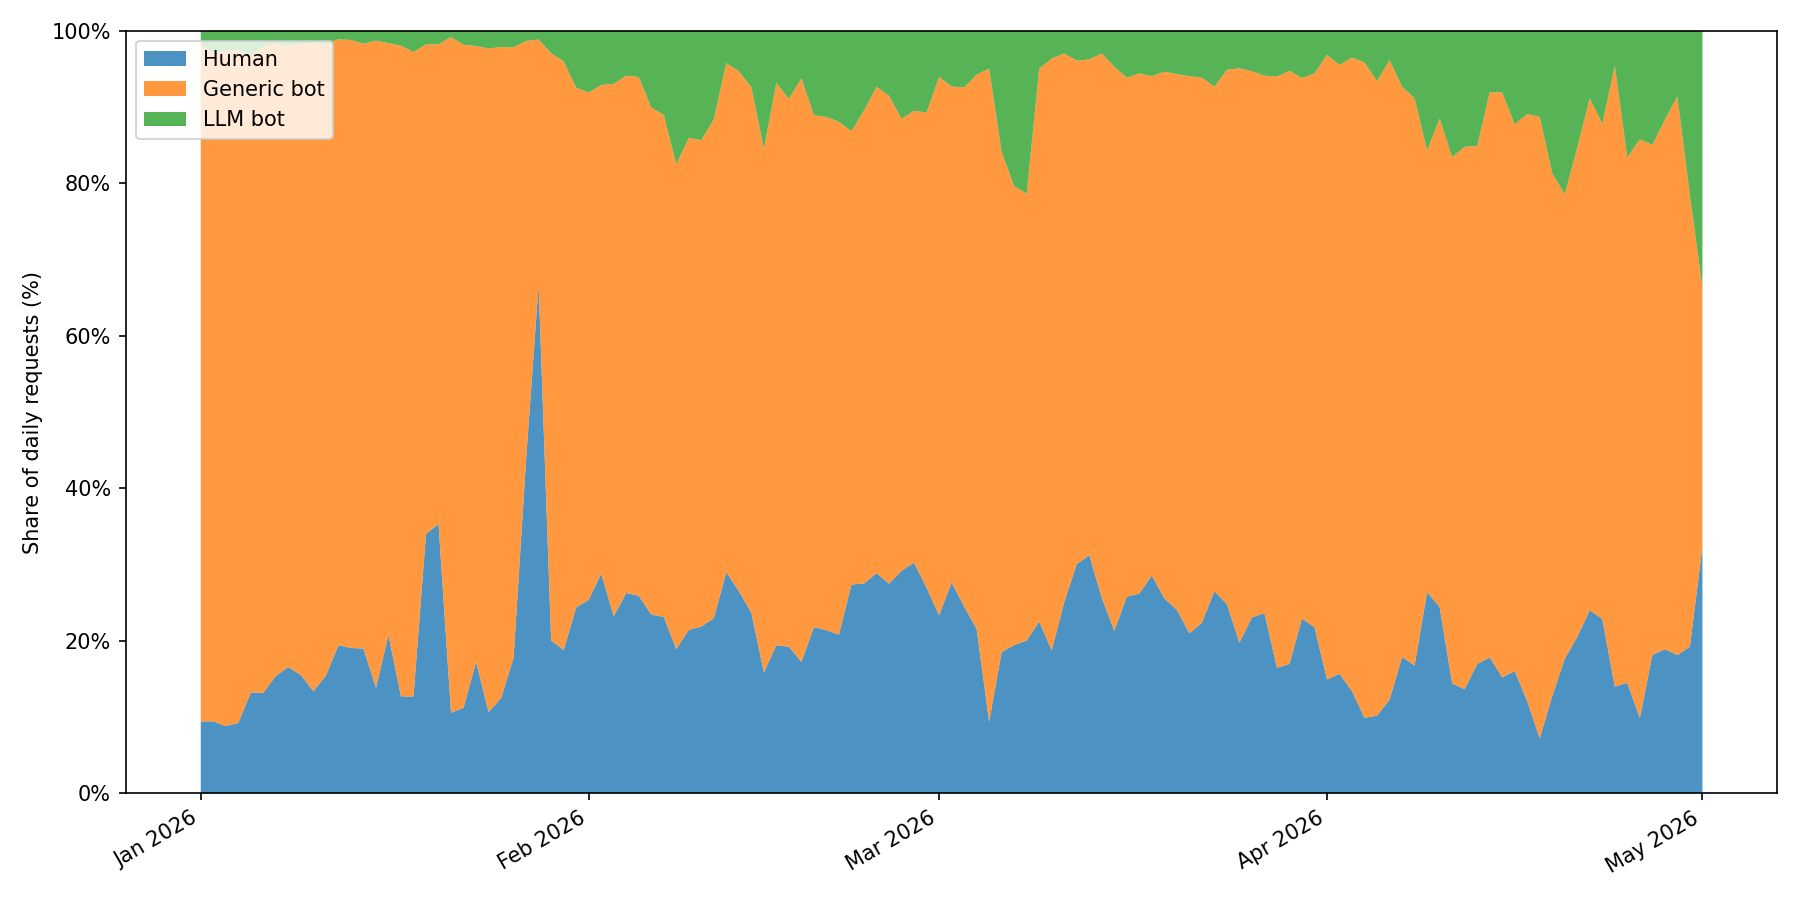
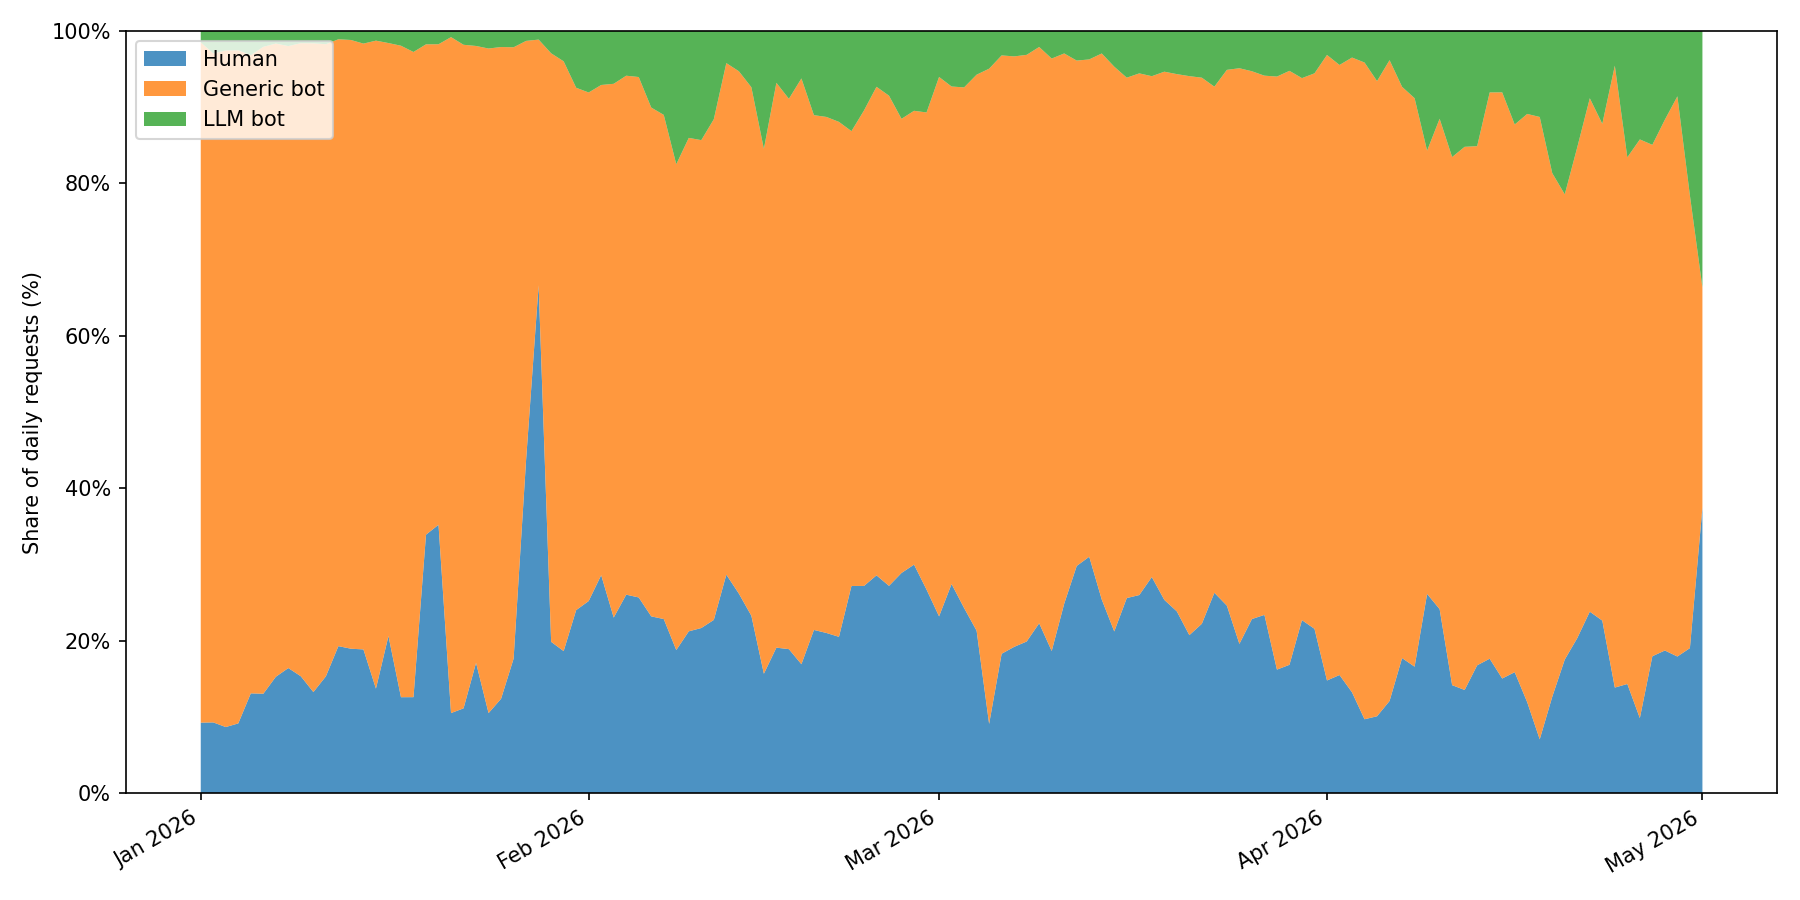
fix: unknown user-agents and custom scripts reclassified as human traffic

Changed region(s): [[0.5289, 0.0622, 0.5911, 0.2178]]

diff --git a/oc_botwatch/classify.py b/oc_botwatch/classify.py
@@ -12,7 +12,6 @@ INPUT_DIR = BASE_DIR / "input"
 
 _SKIP_LLM_NAMES: frozenset[str] = frozenset({"Spider", "Code"})
 
-_SUPPLEMENTARY_LLM_FILE = BASE_DIR / "supplementary_llm_bots.txt"
 _SUPPLEMENTARY_BOT_FILE = BASE_DIR / "supplementary_bots.txt"
 _IP_DAILY_THRESHOLD = 1000
 
@@ -25,7 +24,6 @@ def _build_llm_pattern() -> str:
         if name in _SKIP_LLM_NAMES:
             continue
         parts.append(rf"\b{re.escape(name)}\b")
-    parts.extend(line for line in _SUPPLEMENTARY_LLM_FILE.read_text().splitlines() if line.strip())
     return "(?i)" + "|".join(parts)
 
 

diff --git a/README.md b/README.md
@@ -18,10 +18,9 @@ User-agent strings are matched against three open databases (included as git sub
 
 A request is labeled `llm_bot` if its user-agent matches any entry in ai.robots.txt (apart from "Spider" or "Code", which are too generic and fall through to generic bot detection). Otherwise, if it matches crawler-user-agents (excluding entries already tagged as `ai-crawler`) or COUNTER-Robots, it's labeled `generic_bot`. 
 
-Two supplementary files cover bots present in our data that none of the three databases include:
+A supplementary file covers bots present in our data that none of the three databases include:
 
 - [`supplementary_bots.txt`](supplementary_bots.txt)
-- [`supplementary_llm_bots.txt`](supplementary_llm_bots.txt)
 
 After user-agent classification, any IP that generates more than 1,000 requests in a single day while classified as `human` is reclassified as `generic_bot`.
 
@@ -39,8 +38,8 @@ The dataset covers January through April 2026. Both files are in the `output/` d
 
 ```csv
 date,human,generic_bot,llm_bot
-2026-01-01,209451,1975288,33985
-2026-01-02,159042,1474473,49966
[phone redacted],205984,1978755,33985
[phone redacted],156806,1476709,49966
 ...
 ```
 
@@ -48,7 +47,7 @@ date,human,generic_bot,llm_bot
 
 ![Daily traffic share](output/daily_traffic_pct.png)
 
-Across the entire period, human traffic accounts for 16% to 24% of monthly requests. Generic bots dominate at 66% to 78%. LLM bots started at 2% in January and reached 11% in April, growing from 1.3M to 4.9M monthly requests (+267%).
+Across the entire period, human traffic accounts for 15% to 24% of monthly requests. Generic bots dominate at 66% to 78%. LLM bots started at 2% in January and reached 11% in April, growing from 1.3M to 4.9M monthly requests (+267%).
 
 ## Limitations
 